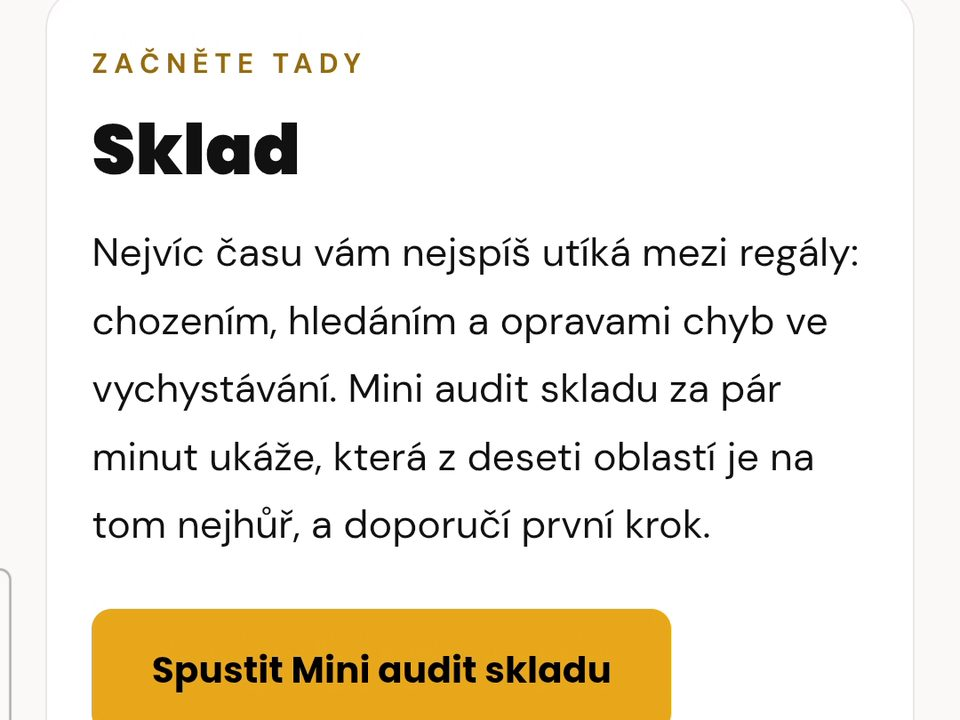
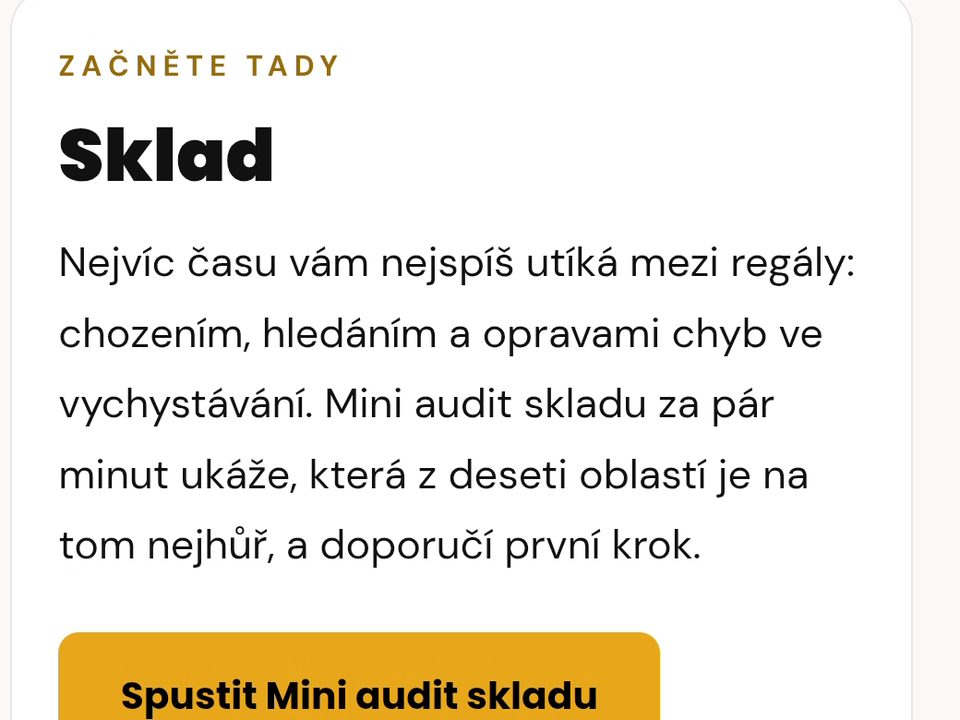
Pro: nový úvod, cena s Bez automatického prodlužování, příběh pod ukázky; úvodní stránka: obrázek kroku 01 bez vady na okraji
Claude-Session: https://claude.ai/code/session_01LBsUBimv5w2kaEmM5bnhcf

diff --git a/pro/index.html b/pro/index.html
@@ -275,20 +275,14 @@ h1 { font-family:'Poppins',sans-serif; font-size:clamp(26px,3.4vw,36px); font-we
 <main class="main">
   <a class="back-link" href="https://tokva.cz/">← Zpět na Tokvu</a>
   <div class="badge">Zakladatelská cena pro prvních 20 firem platí napořád. Nástroje zdarma zůstávají zdarma.</div>
-  <h1>Zabrala ta změna? Tokva Pro to ukáže černé na bílém.</h1>
-  <p class="lead" style="margin-bottom:22px;">Tokva Pro si uloží výsledky z nástrojů, po změně postaví dvě měření vedle sebe a rozdíl přepočítá na koruny. Pro malé výrobní a skladové firmy, které zlepšují provoz bez vlastního procesního specialisty.</p>
-  <div class="hero-proof">
-    <p>Sklad, pět lidí, jedna směna. Práce, která nikam nevedla, stála <strong>303&nbsp;100&nbsp;Kč ročně</strong>.</p>
-    <p>Přeskládali jsme zboží a zjednodušili jeden formulář. Ze 40 minut denně zbylo 15. Druhé měření ukázalo úsporu zhruba <strong>189&nbsp;400&nbsp;Kč ročně</strong>. Ne odhad. Rozdíl dvou měření, tehdy ještě ručně se stopkami, bez appky.</p>
-    <p>U Měřiče plýtvání vypadá druhé měření takhle: chůze při vychystávání spadla z <strong>31&nbsp;% času na 12&nbsp;%</strong>.</p>
-    <p>Čísla stojí na měřeních, která jsem přes 10 let dělala ručně se stopkami přímo v provozu.</p>
-  </div>
+  <h1>Od výsledku měření ke změně, kterou můžete ověřit.</h1>
+  <p class="lead" style="margin-bottom:22px;">Tokva Pro propojí výsledky, úkoly a opakovaná měření na jednom místě. Budete vědět, co změnit, kdo to udělá a jestli opatření pomohlo.</p>
 
   <div class="hero-cta">
-    <a href="#objednavka" class="btn-gold">Chci varianty a ceny →</a>
-    <a href="https://tokva.cz/reseni-problemu/" class="btn-link">Ještě si chci projít nástroje zdarma</a>
+    <a href="#objednavka" class="btn-gold">Vybrat variantu Pro</a>
+    <a href="https://tokva.cz/vstup/" class="btn-link">Ještě si chci projít nástroje zdarma</a>
   </div>
-  <p class="hero-trust">Pro jednotlivce 499&nbsp;Kč, tým 2 až 5 lidí 1&nbsp;390&nbsp;Kč, tým 6 až 15 lidí 2&nbsp;690&nbsp;Kč měsíčně. Zakladatelská cena, dál 690&nbsp;Kč, 1&nbsp;990&nbsp;Kč a 4&nbsp;490&nbsp;Kč.</p>
+  <p class="hero-trust">Od 499&nbsp;Kč měsíčně pro jednoho uživatele, zakladatelská cena. Bez automatického prodlužování.</p>
 
 
   <div class="compare">
@@ -328,6 +322,14 @@ h1 { font-family:'Poppins',sans-serif; font-size:clamp(26px,3.4vw,36px); font-we
     <figure class="screenshot-card">
       <img src="screenshoty/akcni-plan-ukol.png" alt="Akční plán s úkoly, odpovědnou osobou a termínem u každého úkolu" loading="lazy">
     </figure>
+  </div>
+
+  <h2 class="pilire-uvod">Z praxe: co ukáže druhé měření</h2>
+  <div class="hero-proof praxe-blok">
+    <p>Sklad, pět lidí, jedna směna. Práce, která nikam nevedla, stála <strong>303&nbsp;100&nbsp;Kč ročně</strong>.</p>
+    <p>Přeskládali jsme zboží a zjednodušili jeden formulář. Ze 40 minut denně zbylo 15. Druhé měření ukázalo úsporu zhruba <strong>189&nbsp;400&nbsp;Kč ročně</strong>. Ne odhad. Rozdíl dvou měření, tehdy ještě ručně se stopkami, bez appky.</p>
+    <p>U Měřiče plýtvání vypadá druhé měření takhle: chůze při vychystávání spadla z <strong>31&nbsp;% času na 12&nbsp;%</strong>.</p>
+    <p>Čísla stojí na měřeních, která jsem přes 10 let dělala ručně se stopkami přímo v provozu.</p>
   </div>
 
   <h2 class="pilire-uvod">Čtyři věci, které appky zdarma neumí</h2>
